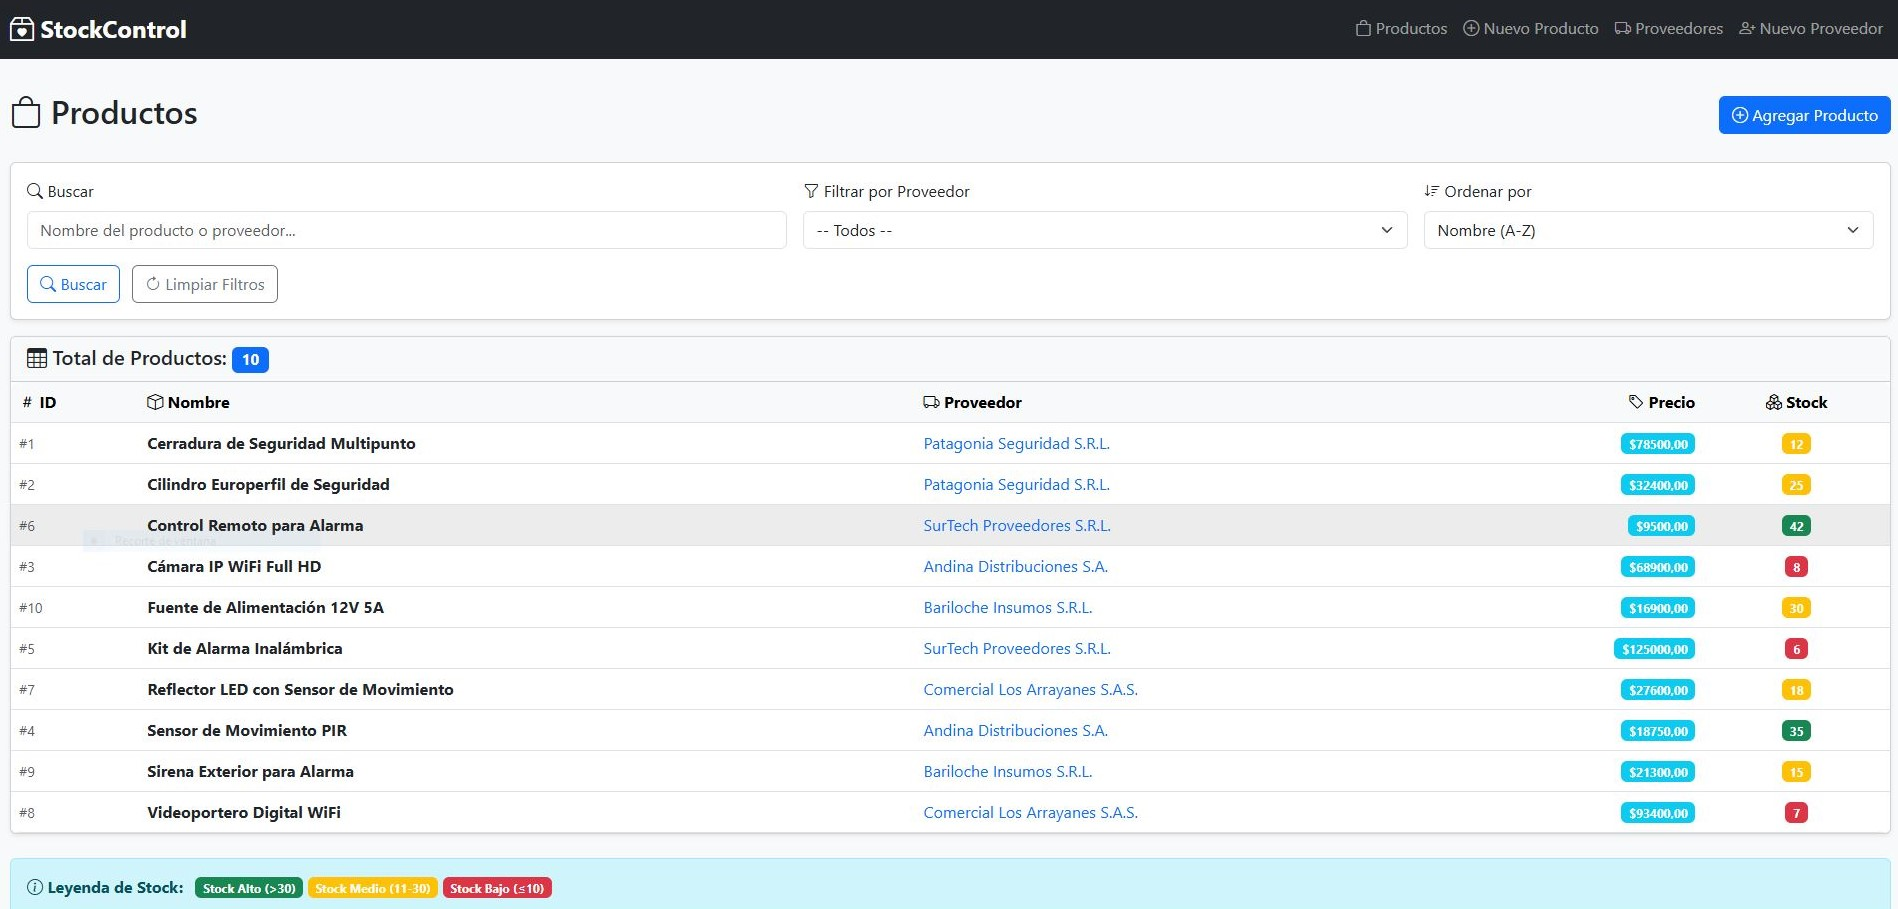
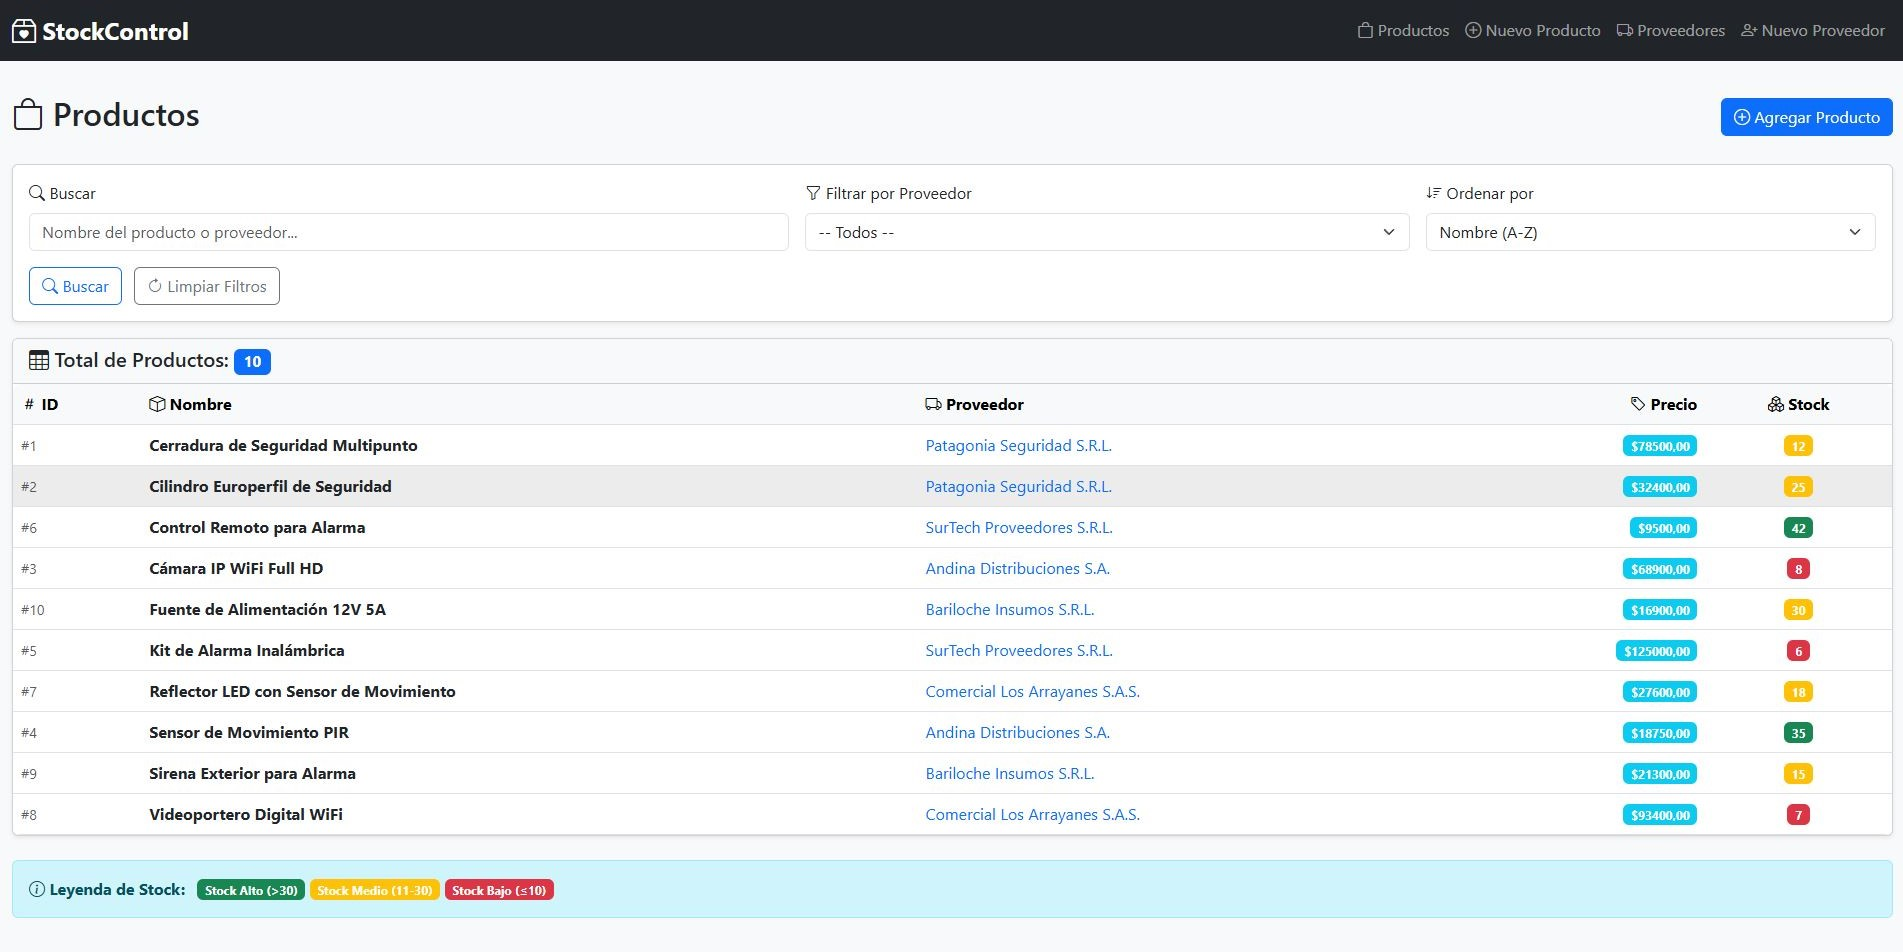
Agrego url de proyecto Stockcontrol y datos del proyecto Grupo5

diff --git a/components/projects-section.tsx b/components/projects-section.tsx
@@ -63,8 +63,17 @@ const projects = [
     description:
       'Sistema de gestión de inventario con Django. Administra proveedores y productos de forma centralizada. Incluye búsqueda, filtrado, ordenamiento y indicadores visuales de stock bajo. Interfaz responsive Bootstrap 5.',
     github: "https://github.com/LucasParra95/stockcontrol",
-    demo: "",
+    demo: "https://stockcontrol-tau.vercel.app/compras/productos/listado",
     tags: ["Python", "Django", "Bootstrap","SQLite"],
+  },
+  {
+    title: "Grupo 5",
+    image: "./projects/grupocinco.jpg",
+    description:
+      'Plataforma de reservas de servicios para eventos. Permite registrar servicios, empleados y clientes; gestionar reservas y visualizar listados. Incluye API REST para consultar servicios y filtrar por ID. Proyecto grupal Alkemy en Python/Django.',
+    github: "https://github.com/LucasParra95/proyecto-python-django",
+    demo: "",
+    tags: ["Python", "Django", "Django REST Framework", "Bootstrap","SQLite"],
   },
 ]
 
